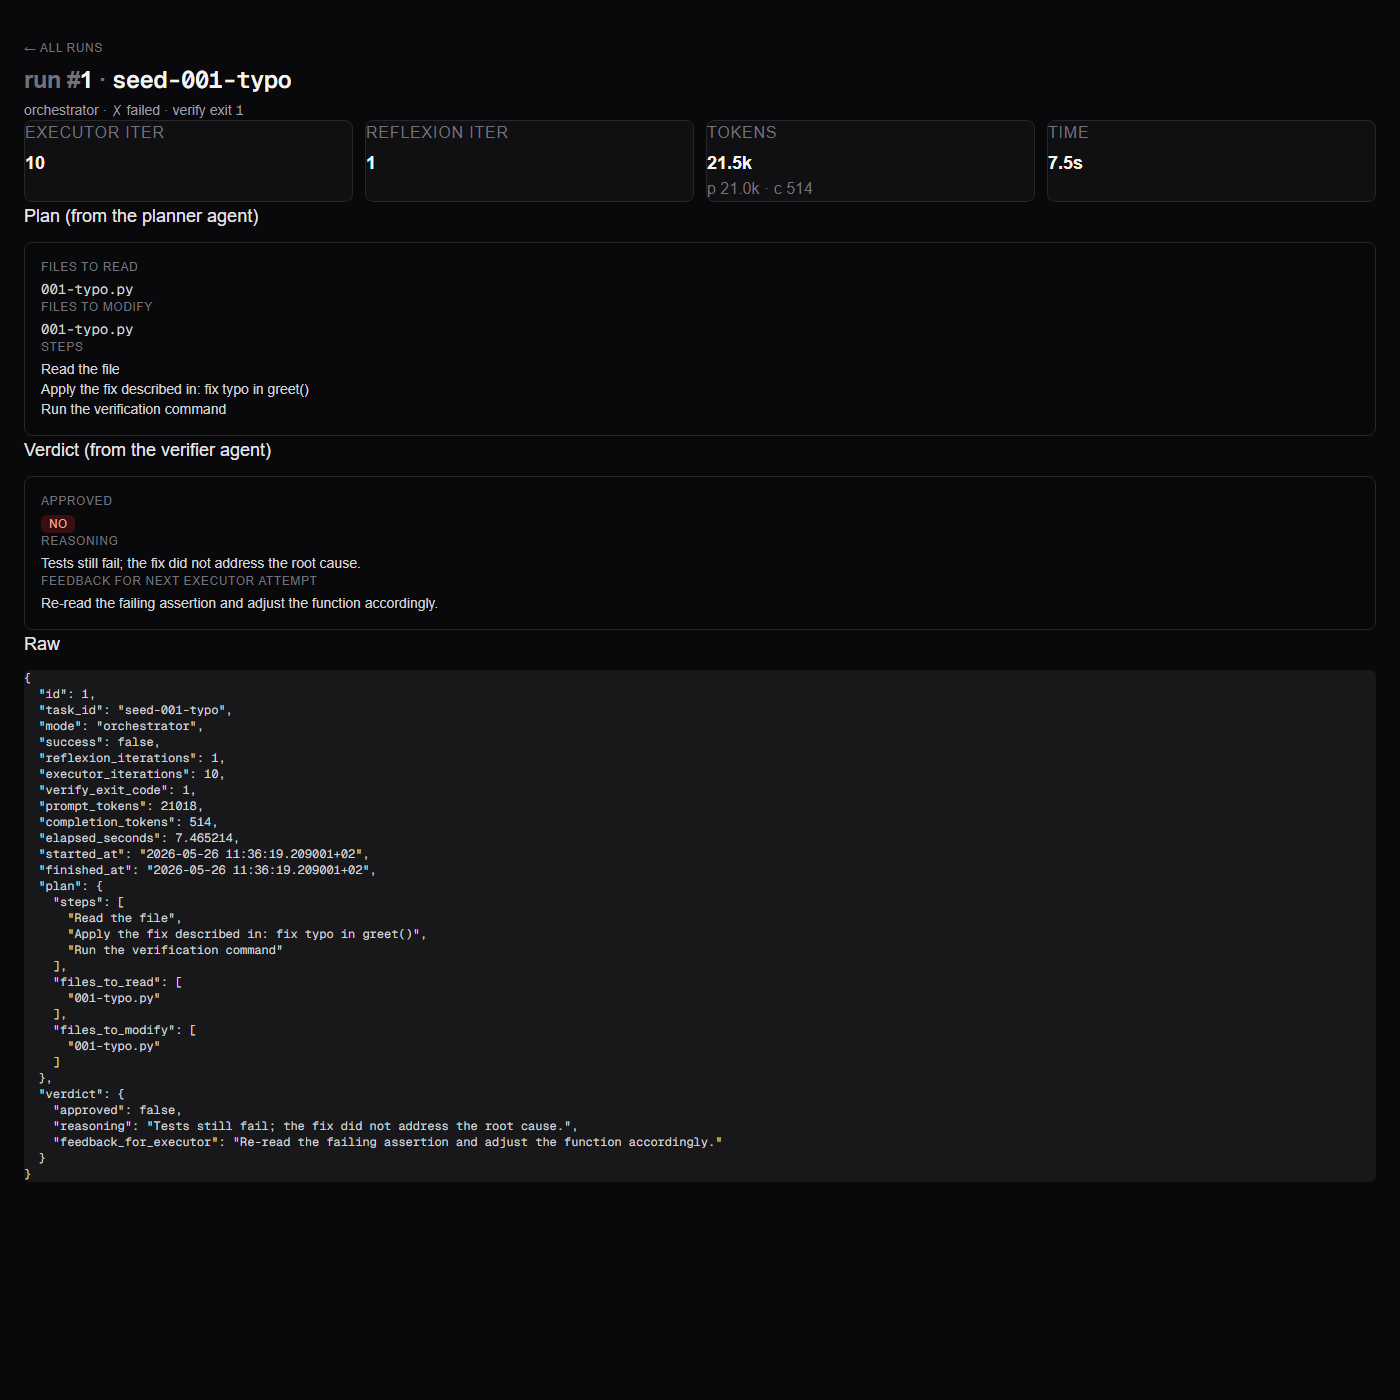
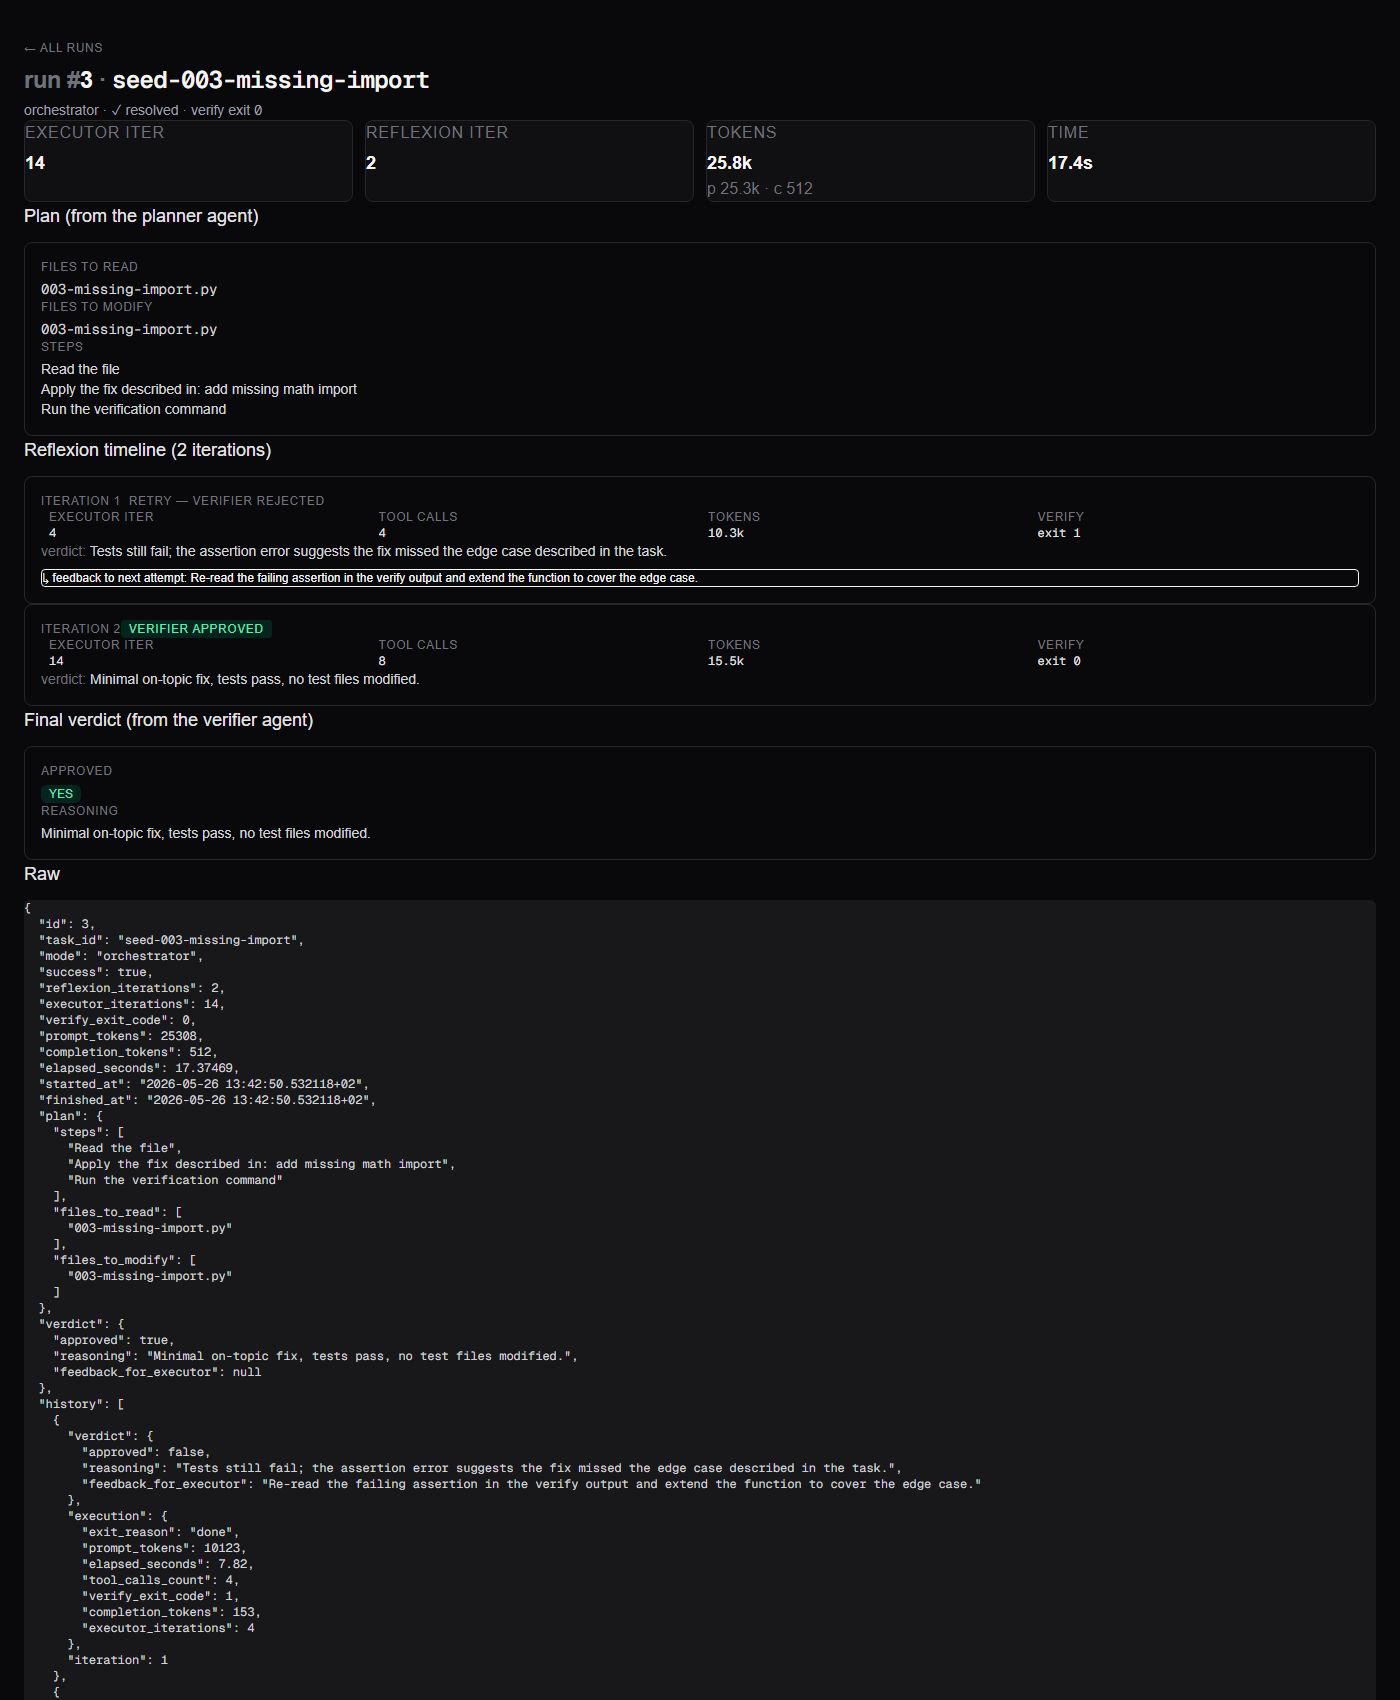
feat(orchestrator,web): persist Reflexion history + timeline UI
When the orchestrator iterates (Reflexion loop on rejected verdicts), each
iteration is now committed to runs.history as a JSONB array with the executor
metrics + verdict reasoning + feedback to the next attempt. The dashboard's
detail page renders this as a vertical timeline so reviewers can see the agent
thinking through retry cycles.

Changes:
- evals/runner.py: _serialise_history() turns the orchestrator's history tuple
  into JSON-friendly dicts (executor metrics + verdict per iteration).
- src/issue_to_pr/storage/db.py: StoredRun adds history; SELECT and dict mapper
  return it.
- web/lib/api.ts: HistoryEntry type + StoredRun.history.
- web/app/runs/[id]/page.tsx: <Timeline> component with rejected/approved
  badges, per-iteration metrics, verifier reasoning, and feedback box on
  rejection.
- scripts/seed_runs.py: synthetic history (some runs have reflexion=2 with
  one rejected attempt + one approved) so the dashboard demo shows the timeline.
- tests: StoredRun mock updated; 117 unit tests still green.
- docs/images/dashboard-detail.png: re-captured with the new timeline visible.

diff --git a/web/lib/api.ts b/web/lib/api.ts
@@ -2,6 +2,24 @@
 
 const API_BASE = process.env.NEXT_PUBLIC_API_BASE ?? "http://127.0.0.1:8765";
 
+export type HistoryEntry = {
+  iteration: number;
+  execution: {
+    executor_iterations: number;
+    exit_reason: string;
+    tool_calls_count: number;
+    prompt_tokens: number;
+    completion_tokens: number;
+    elapsed_seconds: number;
+    verify_exit_code: number;
+  };
+  verdict: {
+    approved: boolean;
+    reasoning: string;
+    feedback_for_executor: string | null;
+  };
+};
+
 export type StoredRun = {
   id: number;
   task_id: string;
@@ -17,6 +35,7 @@ export type StoredRun = {
   finished_at: string | null;
   plan: Record<string, unknown>;
   verdict: Record<string, unknown>;
+  history: HistoryEntry[];
 };
 
 export type Stats = {

diff --git a/scripts/seed_runs.py b/scripts/seed_runs.py
@@ -10,6 +10,7 @@ before inserting, leaving any real runs untouched.
 from __future__ import annotations
 
 import random
+from typing import Any
 
 from issue_to_pr.settings import get_settings
 from issue_to_pr.storage import Storage
@@ -61,7 +62,7 @@ def main() -> int:
             if mode == "orchestrator"
             else {}
         )
-        verdict = (
+        final_verdict = (
             {
                 "approved": success,
                 "reasoning": (
@@ -77,6 +78,55 @@ def main() -> int:
             else {}
         )
 
+        # Build synthetic history with one rejected attempt for reflexion=2 runs.
+        history: list[dict[str, Any]] = []
+        if mode == "orchestrator" and reflexion is not None:
+            if reflexion >= 2:
+                history.append(
+                    {
+                        "iteration": 1,
+                        "execution": {
+                            "executor_iterations": rng.randint(4, 8),
+                            "exit_reason": "done",
+                            "tool_calls_count": rng.randint(3, 6),
+                            "prompt_tokens": int(prompt_t * 0.4),
+                            "completion_tokens": int(completion_t * 0.3),
+                            "elapsed_seconds": round(elapsed * 0.45, 2),
+                            "verify_exit_code": 1,
+                        },
+                        "verdict": {
+                            "approved": False,
+                            "reasoning": (
+                                "Tests still fail; the assertion error suggests the fix "
+                                "missed the edge case described in the task."
+                            ),
+                            "feedback_for_executor": (
+                                "Re-read the failing assertion in the verify output and "
+                                "extend the function to cover the edge case."
+                            ),
+                        },
+                    }
+                )
+            history.append(
+                {
+                    "iteration": len(history) + 1,
+                    "execution": {
+                        "executor_iterations": exec_iter,
+                        "exit_reason": "done",
+                        "tool_calls_count": rng.randint(5, 9),
+                        "prompt_tokens": prompt_t
+                        - sum(h["execution"]["prompt_tokens"] for h in history),
+                        "completion_tokens": completion_t
+                        - sum(h["execution"]["completion_tokens"] for h in history),
+                        "elapsed_seconds": round(
+                            elapsed - sum(h["execution"]["elapsed_seconds"] for h in history), 2
+                        ),
+                        "verify_exit_code": 0 if success else 1,
+                    },
+                    "verdict": final_verdict,
+                }
+            )
+
         storage.insert_run(
             task_id=task_id,
             mode=mode,
@@ -88,7 +138,8 @@ def main() -> int:
             elapsed_seconds=elapsed,
             reflexion_iterations=reflexion,
             plan=plan,
-            verdict=verdict,
+            verdict=final_verdict,
+            history=history,
         )
         inserted += 1
 

diff --git a/evals/runner.py b/evals/runner.py
@@ -106,6 +106,39 @@ def _run_one_executor(
         shutil.rmtree(workspace, ignore_errors=True)
 
 
+def _serialise_history(
+    history: tuple[tuple[Any, Any], ...],
+) -> list[dict[str, Any]]:
+    """Turn the orchestrator's history tuple into a JSON-friendly list for the runs table.
+
+    We keep per-iteration metrics that the dashboard timeline needs (token cost, verifier
+    verdict, tool-call count) but avoid embedding the raw assistant prompts/responses to
+    keep the row small.
+    """
+    out: list[dict[str, Any]] = []
+    for i, (execution, verdict) in enumerate(history, start=1):
+        out.append(
+            {
+                "iteration": i,
+                "execution": {
+                    "executor_iterations": execution.iterations,
+                    "exit_reason": execution.exit_reason,
+                    "tool_calls_count": len(execution.tool_calls),
+                    "prompt_tokens": execution.total_prompt_tokens,
+                    "completion_tokens": execution.total_completion_tokens,
+                    "elapsed_seconds": round(execution.elapsed_seconds, 2),
+                    "verify_exit_code": execution.verify_exit_code,
+                },
+                "verdict": {
+                    "approved": verdict.approved,
+                    "reasoning": verdict.reasoning,
+                    "feedback_for_executor": verdict.feedback_for_executor,
+                },
+            }
+        )
+    return out
+
+
 def _run_one_orchestrator(
     yaml_path: Path,
     orchestrator: Orchestrator,
@@ -144,6 +177,7 @@ def _run_one_orchestrator(
                     reflexion_iterations=outcome.reflexion_iterations,
                     plan=asdict(outcome.plan),
                     verdict=asdict(outcome.final_verdict),
+                    history=_serialise_history(outcome.history),
                 )
             except Exception as exc:  # noqa: BLE001  # persistence failure must not lose the result
                 print(f"[eval]   WARNING: could not persist run {spec.id}: {exc}", flush=True)

diff --git a/src/issue_to_pr/storage/db.py b/src/issue_to_pr/storage/db.py
@@ -40,6 +40,7 @@ class StoredRun:
     finished_at: str | None
     plan: dict[str, Any]
     verdict: dict[str, Any]
+    history: list[dict[str, Any]]
 
 
 class Storage:
@@ -165,7 +166,7 @@ class Storage:
                    verify_exit_code, prompt_tokens, completion_tokens, elapsed_seconds,
                    started_at::text AS started_at,
                    finished_at::text AS finished_at,
-                   plan, verdict
+                   plan, verdict, history
             FROM runs
             ORDER BY started_at DESC
             LIMIT %(limit)s OFFSET %(offset)s
@@ -181,7 +182,7 @@ class Storage:
                    verify_exit_code, prompt_tokens, completion_tokens, elapsed_seconds,
                    started_at::text AS started_at,
                    finished_at::text AS finished_at,
-                   plan, verdict
+                   plan, verdict, history
             FROM runs
             WHERE id = %(id)s
         """
@@ -207,4 +208,5 @@ class Storage:
             finished_at=row["finished_at"],
             plan=row["plan"] or {},
             verdict=row["verdict"] or {},
+            history=row.get("history") or [],
         )

diff --git a/tests/unit/test_api.py b/tests/unit/test_api.py
@@ -26,6 +26,7 @@ def _stored_run(*, run_id: int = 1, task_id: str = "t") -> StoredRun:
         finished_at="2026-05-26T10:00:02+00:00",
         plan={"steps": ["s"]},
         verdict={"approved": True, "reasoning": "ok"},
+        history=[],
     )
 
 
